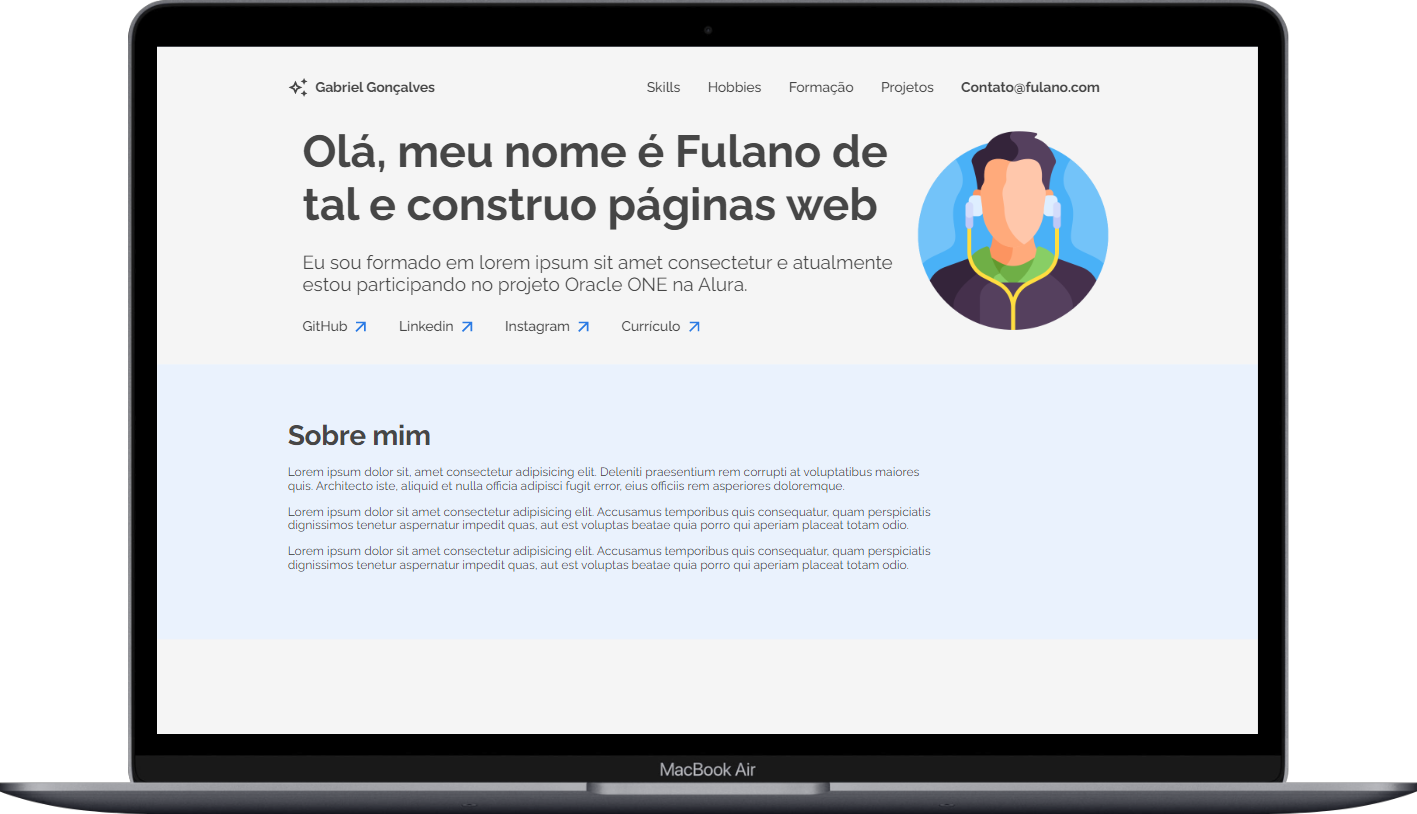
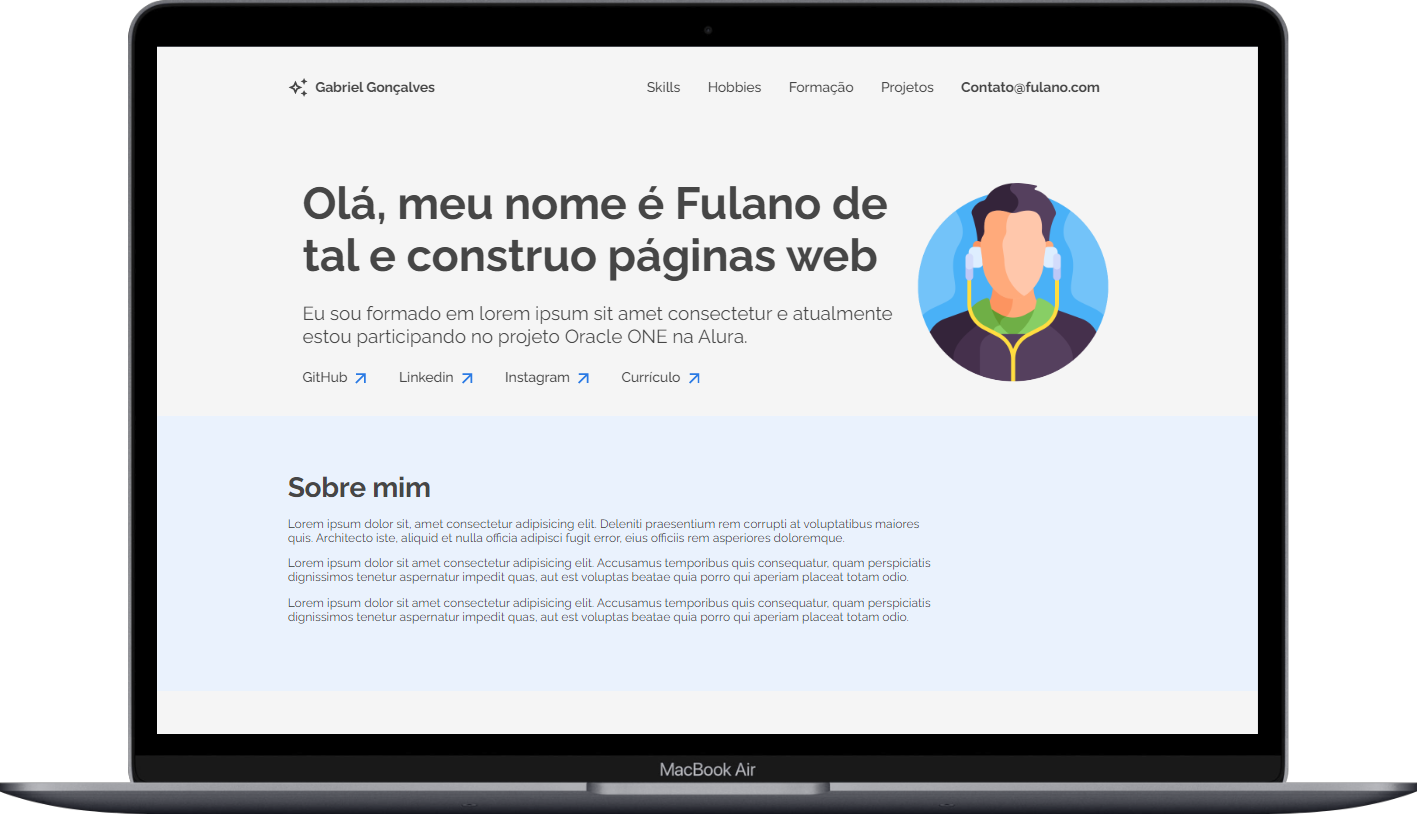
patch

diff --git a/sass/style.sass b/sass/style.sass
@@ -72,7 +72,8 @@ header
   gap: 20px
   align-items: center
   justify-content: center
-  margin-bottom: $space-section
+  margin-top: $space-section + 60px
+  margin-bottom: $space-section 
   .landing-img
     width: 20%
     height: 20%
@@ -320,7 +321,7 @@ footer
   .landing
     width: 90%
     margin: auto
-    margin-top: $space-section
+    margin-top: $space-section + 60px
     margin-bottom: $space-section
     .landing-main
       width: 60%
@@ -378,6 +379,7 @@ footer
     align-items: center
     justify-content: center
     margin: auto
+    margin-top: $space-section + 60px
     margin-bottom: $space-section
     padding: 0 60px
     .landing-img
@@ -469,6 +471,7 @@ footer
     align-items: center
     justify-content: center
     margin: auto
+    margin-top: $space-section + 60px
     margin-bottom: $space-section
     padding: 0 60px
     .landing-img

diff --git a/sass/style.css b/sass/style.css
@@ -78,6 +78,7 @@ header .header-links ul li:hover {
   gap: 20px;
   align-items: center;
   justify-content: center;
+  margin-top: 92px;
   margin-bottom: 32px;
 }
 .landing .landing-img {
@@ -377,7 +378,7 @@ footer a:hover {
   .landing {
     width: 90%;
     margin: auto;
-    margin-top: 32px;
+    margin-top: 92px;
     margin-bottom: 32px;
   }
   .landing .landing-main {
@@ -439,6 +440,7 @@ footer a:hover {
     align-items: center;
     justify-content: center;
     margin: auto;
+    margin-top: 92px;
     margin-bottom: 32px;
     padding: 0 60px;
   }
@@ -536,6 +538,7 @@ footer a:hover {
     align-items: center;
     justify-content: center;
     margin: auto;
+    margin-top: 92px;
     margin-bottom: 32px;
     padding: 0 60px;
   }
